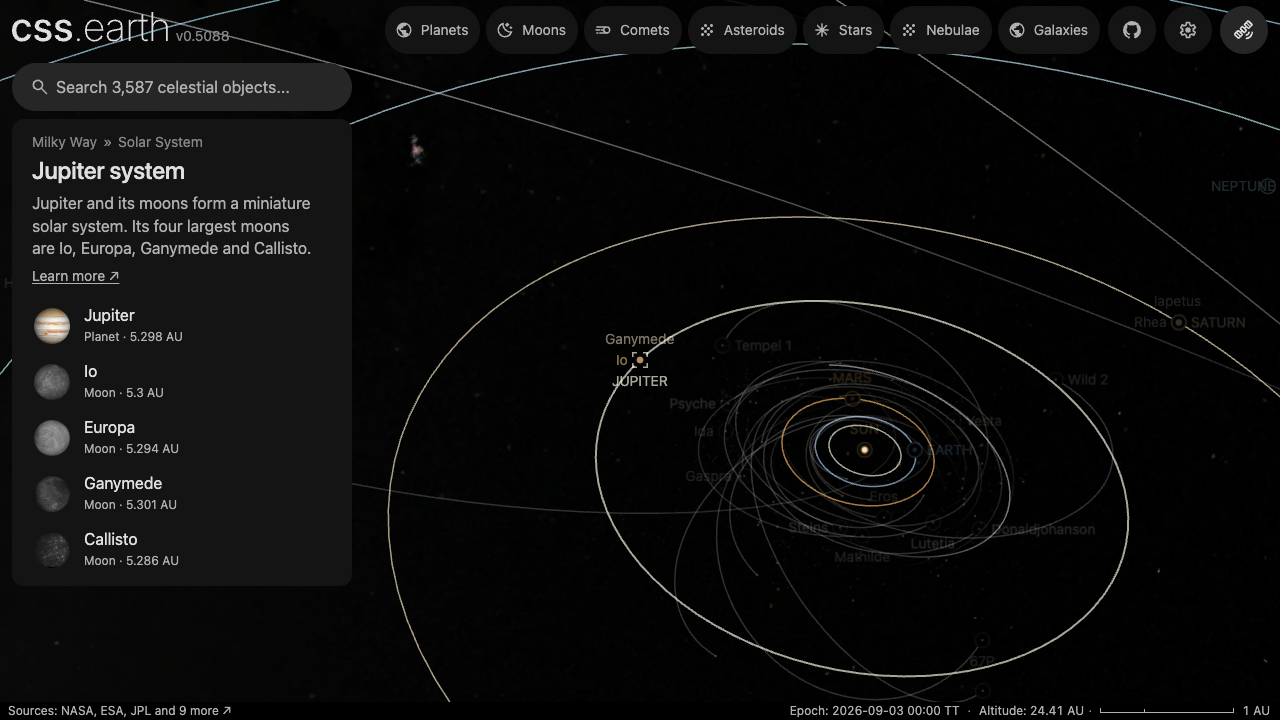
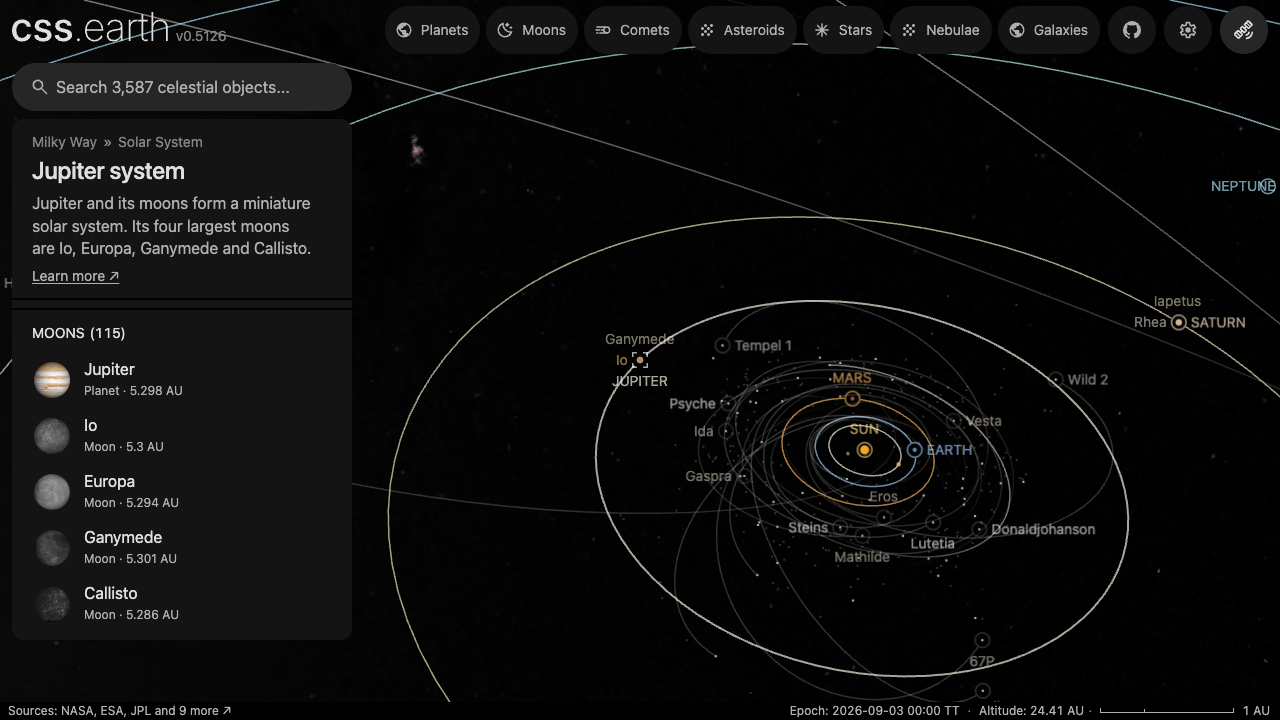
fix(ui): remove selection dimming from labels and circles

diff --git a/packages/renderer/src/universe/prepared-world-context.ts b/packages/renderer/src/universe/prepared-world-context.ts
@@ -1,7 +1,6 @@
 import { createContextLocator } from './context-locator.js';
 import type { PreparedWorldContext, PreparedContextBody } from '../prepared-data/world-context.js';
 import { ContextChange, createWorldContextFrameReceiver } from './world-context/world-context-frame.js';
-import { createContextSelectionPolicy } from './context-presentation-policy.js';
 import { createWorldContextBodyInteraction, createWorldContextInteractions } from './world-context/world-context-interactions.js';
 import { createWorldContextMarkerFactory, createWorldContextMarkerPaint, type WorldContextMarkerPaint } from './world-context/world-context-marker-paint.js';
 import type { WorldContextFrame } from './world-context/world-context-frame.js';
@@ -148,8 +147,7 @@ export function mountPreparedWorldContext({ host, presentationHost = host, befor
   let presentationRevision = 0, policyDirty = true;
   let distantNavigationActive = false;
   const contextFrames = createWorldContextFrameReceiver();
-  let previousHeader: { emphasizedId: string | null; selectionStrength: number; otherSystemOpacity: number; width: number; height: number } | null = null;
-  const selectionPolicy = createContextSelectionPolicy(plan);
+  let previousHeader: { emphasizedId: string | null; otherSystemOpacity: number; width: number; height: number } | null = null;
   let publishCount = 0;
   const createMarker = createWorldContextMarkerFactory(host.ownerDocument);
   // Orbit roots clone one template too. Bars draw inside the root, which places and orders them (.context-orbit-bars in
@@ -469,7 +467,6 @@ export function mountPreparedWorldContext({ host, presentationHost = host, befor
       presentationRevision++;
       const { ranksChanged, changed: depthChanged } = depthOrder.update(world.pose.orientationXyzw, rotating, selectedEntry);
       const { emphasizedId, width, height } = frame;
-      const selectionStrength = selectionPolicy.strengthAt(emphasizedId, world.pose.positionM, overviewSelection);
       // Inside the focus star's system, other systems' bodies stay clickable but read as not belonging to it.
       const starField = starFieldFade(Math.hypot(...world.pose.positionM.map((value, axis) => value - plan.focus.positionM[axis]!)), plan.system);
       const otherSystemOpacity = systemFade.of(0) > .5
@@ -479,9 +476,9 @@ export function mountPreparedWorldContext({ host, presentationHost = host, befor
       cameraState.set(viewport.principalOffsetPixels, 10);
       const resized = previousHeader?.width !== width || previousHeader?.height !== height;
       const policyChanged = resized || distantNavigationChanged || policyDirty || previousHeader?.emphasizedId !== emphasizedId ||
-        previousHeader?.selectionStrength !== selectionStrength || previousHeader?.otherSystemOpacity !== otherSystemOpacity;
+        previousHeader?.otherSystemOpacity !== otherSystemOpacity;
       policyDirty = false;
-      previousHeader = { emphasizedId, selectionStrength, otherSystemOpacity, width, height };
+      previousHeader = { emphasizedId, otherSystemOpacity, width, height };
       if (!cameraChanged && !policyChanged && !depthChanged && !interactiveHover && delta.changes.size === 0) {
         skippedPublications++;
         return;
@@ -521,8 +518,8 @@ export function mountPreparedWorldContext({ host, presentationHost = host, befor
         if (mask === 0) continue;
         const contextEmphasis = (highlighting && !entry.highlighted && !entry.hovered ? .3 : 1) *
           (!entry.hovered && !systemFade.inFocusSystem(entry.index) ? otherSystemOpacity : 1);
-        const emphasis = selectionPolicy.opacity(body.id, emphasizedId, entry.hovered, selectionStrength) * contextEmphasis;
-        // All three visual parts share this one zoom/selection alpha and
+        const emphasis = contextEmphasis;
+        // All three visual parts share this one zoom/context alpha and
         // movement transform. The pseudos only own annotation visibility.
         const plannedShown = (visible || (annotationVisible && (entry.indicatorShown || entry.labelShown))) && markerOpacity > 0;
         // Coasting holds membership: a shown body stays shown and fades out if the plan drops it; a hidden one waits.

diff --git a/packages/renderer/src/universe/context-presentation-policy.ts b/packages/renderer/src/universe/context-presentation-policy.ts
@@ -1,10 +1,7 @@
-import type { PreparedWorldContext } from '../prepared-data/world-context.js';
 import type { OrbitLineFade } from '../navigation/types.js';
 import { orbitLineOpacity } from '../navigation/perspective-dolly.js';
-import type { PositionM } from '@cssearth/engine';
 
 const CLOSE_ORBIT_OPACITY = .3;
-const UNRELATED_OPACITY = .25;
 
 /** At close range retain the nearby orbit, then soften its distant continuation.
  * At system scale the full orbit lies inside the unfaded range. */
@@ -21,48 +18,4 @@ export function contextOrbitOpacity(fade: OrbitLineFade, discHeightShare: number
  * as a map shows no orbit at all; it fades out with the body's growth and returns as the camera pulls back to the system. */
 export function focusOwnOrbitOpacity(fade: OrbitLineFade, discHeightShare: number): number {
   return orbitLineOpacity(fade, discHeightShare);
-}
-
-/** A planet and its satellites share emphasis, including when a moon is selected. */
-export function createContextSelectionPolicy(plan: PreparedWorldContext) {
-  const parents = new Map(plan.bodies.map(body => [body.id, body.orbit?.centerBodyId]));
-  for (const [id, center] of Object.entries(plan.orbitCenters ?? {})) parents.set(id, center.centerBodyId);
-  // A planetary system's star orbits nothing: the Sun, or a placed star that bodies orbit.
-  const systemStars = new Set([plan.focus.id, ...[...parents.values()].filter((id): id is string => id !== undefined && !parents.get(id))]);
-  const systems = new Map<string, string>();
-  for (const id of [plan.focus.id, ...parents.keys()]) {
-    let system = id;
-    const visited = new Set<string>();
-    while (!visited.has(system)) {
-      visited.add(system);
-      const parent = parents.get(system);
-      if (!parent || systemStars.has(parent)) break;
-      system = parent;
-    }
-    systems.set(id, system);
-  }
-  const scales = new Map(plan.bodies.filter(body => systems.get(body.id) === body.id).map(body => [body.id, {
-    position: body.positionM,
-    radius: body.orbit?.lod?.bounds.radiusM ?? Math.hypot(...body.positionM.map((value, axis) => value - plan.focus.positionM[axis])),
-  }]));
-  return {
-    /** Relax emphasis from half to twice the primary body's solar-orbit radius.
-     * Moons share their planet's scale. Distance makes the fade independent of
-     * viewing angle; 1/64 steps avoid rewriting opacity for tiny camera changes. */
-    strengthAt(emphasizedId: string | null, cameraPositionM: PositionM, selectedSystem = false): number {
-      if (emphasizedId === null || systemStars.has(emphasizedId)) return 0;
-      // An explicitly selected satellite family keeps its emphasis until selection changes.
-      if (selectedSystem) return 1;
-      const scale = scales.get(systems.get(emphasizedId) ?? emphasizedId);
-      if (!scale || !(scale.radius > 0)) return 1;
-      const distance = Math.hypot(...cameraPositionM.map((value, axis) => value - scale.position[axis]));
-      const t = Math.max(0, Math.min(1, Math.log2(distance / (.5 * scale.radius)) / 2));
-      return Math.round((1 - t * t * (3 - 2 * t)) * 64) / 64;
-    },
-    opacity(bodyId: string, emphasizedId: string | null, hovered = false, strength = 1): number {
-      if (hovered || emphasizedId === null || systemStars.has(emphasizedId) || bodyId === emphasizedId) return 1;
-      const selectedSystem = systems.get(emphasizedId);
-      return selectedSystem !== undefined && systems.get(bodyId) === selectedSystem ? 1 : 1 - (1 - UNRELATED_OPACITY) * strength;
-    },
-  };
 }

diff --git a/site/test/prepared-world-context.test.ts b/site/test/prepared-world-context.test.ts
@@ -851,7 +851,7 @@ test('prepared planetary systems retain identified moon paths and retire offscre
   layer.destroy();
 });
 
-test.each(['bars', 'strokes'] as const)('%s dims unrelated body markers while keeping orbit opacity independent of selection', orbitRenderer => {
+test.each(['bars', 'strokes'] as const)('%s keeps body markers and orbit opacity independent of selection', orbitRenderer => {
   const document = new FakeDocument(), host = document.createElement('section'), before = document.createElement('i');
   host.clientWidth = 800; host.clientHeight = 600; host.append(before);
   const base = plan(1), parent = base.bodies[0]!;
@@ -877,7 +877,7 @@ test.each(['bars', 'strokes'] as const)('%s dims unrelated body markers while ke
   for (const id of [parent.id, 'moon-a', 'moon-b']) {
     layer.previewSelection(id); document.defaultView.advance(200);
     for (const body of context.bodies) {
-      const expected = body.id === unrelated.id ? .25 : 1;
+      const expected = 1;
       const actual = opacity(body.id), normal = baseline.get(body.id)!;
       expect(normal.marker).toBeGreaterThan(0); expect(normal.line).toBeGreaterThan(0);
       expect(actual.marker / normal.marker, `${id} -> ${body.id} marker`).toBeCloseTo(expected, 1);
@@ -899,8 +899,7 @@ test.each(['bars', 'strokes'] as const)('%s dims unrelated body markers while ke
   document.defaultView.advance(200); document.defaultView.advance(200);
   layer.previewSelection(null); document.defaultView.advance(200);
   for (const body of context.bodies) expect(opacity(body.id)).toEqual(baseline.get(body.id));
-  // Pulling back restores context without clearing the selected body. Both
-  // paint owners must update their multipliers again when zooming back in.
+  // Selection stays independent of opacity when zooming out and back in.
   layer.previewSelection(parent.id);
   const publishDistance = (distance: number) => layer.publish({ referenceFrame: 'sun-icrf', epochJdTt: 1,
     pose: { positionM: [100, 0, distance], orientationXyzw: [0, 0, 0, 1] } },
@@ -911,7 +910,7 @@ test.each(['bars', 'strokes'] as const)('%s dims unrelated body markers while ke
   expect(opacity(unrelated.id)).toEqual(farSelected);
   layer.previewSelection(parent.id);
   publishDistance(40);
-  expect(opacity(unrelated.id).marker / baseline.get(unrelated.id)!.marker).toBeCloseTo(.25, 1);
+  expect(opacity(unrelated.id).marker / baseline.get(unrelated.id)!.marker).toBeCloseTo(1, 1);
   expect(opacity(unrelated.id).line / baseline.get(unrelated.id)!.line).toBeCloseTo(1, 1);
   layer.destroy();
 });

diff --git a/packages/renderer/src/universe/world-context/world-context-planner.test.ts b/packages/renderer/src/universe/world-context/world-context-planner.test.ts
@@ -5,7 +5,6 @@ import { createSystemFade } from './context-scale.js';
 import { createWorldContextPlanner } from './world-context-planner.js';
 import type { WorldContextView } from './world-context-planner.js';
 import { packWorldBodies, unpackWorldBodies } from './world-context-view-transport.js';
-import { createContextSelectionPolicy } from '../context-presentation-policy.js';
 import { FEATURED_STAR_TIER, labelImportance } from '../../labels/universe-label-policy.js';
 
 const plan = parsePreparedWorldContext(JSON.parse(await readFile(
@@ -513,26 +512,6 @@ test('planet views label their own moon family, with a bounded total', () => {
   expect(names.some(body => body.id === 'saturn')).toBe(true);
   expect(names.filter(body => 'orbit' in body && body.orbit && body.orbit.centerBodyId !== plan.focus.id)
     .every(body => 'orbit' in body && body.orbit?.centerBodyId === 'saturn')).toBe(true);
-});
-
-test.each(['ryugu', 'saturn'])('%s selection dimming relaxes at system scale, independently of camera angle', id => {
-  const policy = createContextSelectionPolicy(plan), selected = plan.bodies.find(body => body.id === id)!;
-  const scale = selected.orbit!.lod!.bounds.radiusM;
-  for (const axis of [0, 1, 2]) {
-    const values = [.25, .5, 1, 2, 4].map(factor => {
-      const position: [number, number, number] = [...selected.positionM];
-      position[axis] += scale * factor;
-      const strength = policy.strengthAt(id, position);
-      expect(policy.opacity(id, id, false, strength)).toBe(1);
-      expect(policy.opacity('earth', id, true, strength)).toBe(1);
-      if (id === 'saturn') {
-        expect(policy.strengthAt('titan', position)).toBe(strength);
-        expect(policy.opacity('titan', id, false, strength)).toBe(1);
-      }
-      return policy.opacity('earth', id, false, strength);
-    });
-    expect(values).toEqual([.25, .25, .625, 1, 1]);
-  }
 });
 
 test.each(['saturn', 'jupiter', 'uranus'])('%s: close detail retires its own and unrelated solar orbits', id => {

diff --git a/packages/renderer/src/universe/world-context/world-context-system-selection.test.ts b/packages/renderer/src/universe/world-context/world-context-system-selection.test.ts
@@ -2,11 +2,10 @@ import { readFile } from 'node:fs/promises';
 import { expect, test } from 'vitest';
 import { parsePreparedWorldContext } from '../../prepared-data/world-context.js';
 import { createWorldContextPlanner, type WorldContextView } from './world-context-planner.js';
-import { createContextSelectionPolicy } from '../context-presentation-policy.js';
 
 const plan = parsePreparedWorldContext(JSON.parse(await readFile(new URL('../../../../../src/objects/sun/prepared/world-context.json', import.meta.url), 'utf8')));
 
-test('a selected satellite overview retains its host emphasis and family dimming', () => {
+test('a selected satellite overview retains its selected host locator', () => {
   const host = plan.bodies.find(body => body.id === 'jupiter')!;
   const positionM = [host.positionM[0], host.positionM[1], host.positionM[2] + 1e10] as const;
   const view: WorldContextView = {
@@ -21,12 +20,6 @@ test('a selected satellite overview retains its host emphasis and family dimming
   const calculate = createWorldContextPlanner(plan);
   const selected = calculate(view);
   expect(selected.emphasizedId).toBe('jupiter');
-  const policy = createContextSelectionPolicy(plan), strength = policy.strengthAt(selected.emphasizedId, positionM);
-  expect(policy.opacity('io', selected.emphasizedId, false, strength)).toBe(1);
-  expect(policy.opacity('earth', selected.emphasizedId, false, strength)).toBe(.25);
-  const widePosition = [host.positionM[0], host.positionM[1], host.positionM[2] + 30 * 149597870700] as const;
-  expect(policy.strengthAt(selected.emphasizedId, widePosition)).toBe(0);
-  expect(policy.strengthAt(selected.emphasizedId, widePosition, true)).toBe(1);
   expect(calculate({ ...view, overviewSelection: false }).emphasizedId).toBeNull();
   expect(calculate({ ...view, overview: false, overviewSelection: false }).emphasizedId).toBe('jupiter');
 });

diff --git a/packages/renderer/src/universe/world-context/world-context-planner.ts b/packages/renderer/src/universe/world-context/world-context-planner.ts
@@ -42,7 +42,7 @@ export interface WorldContextView {
   viewport: WorldCameraViewport;
   selectedId: string;
   overview: boolean;
-  /** A selected system retains its host locator and family emphasis while using overview orbit framing. */
+  /** A selected system retains its host locator while using overview orbit framing. */
   overviewSelection?: boolean;
   selectionPreview?: string | null;
   navigationInFlight: boolean;
